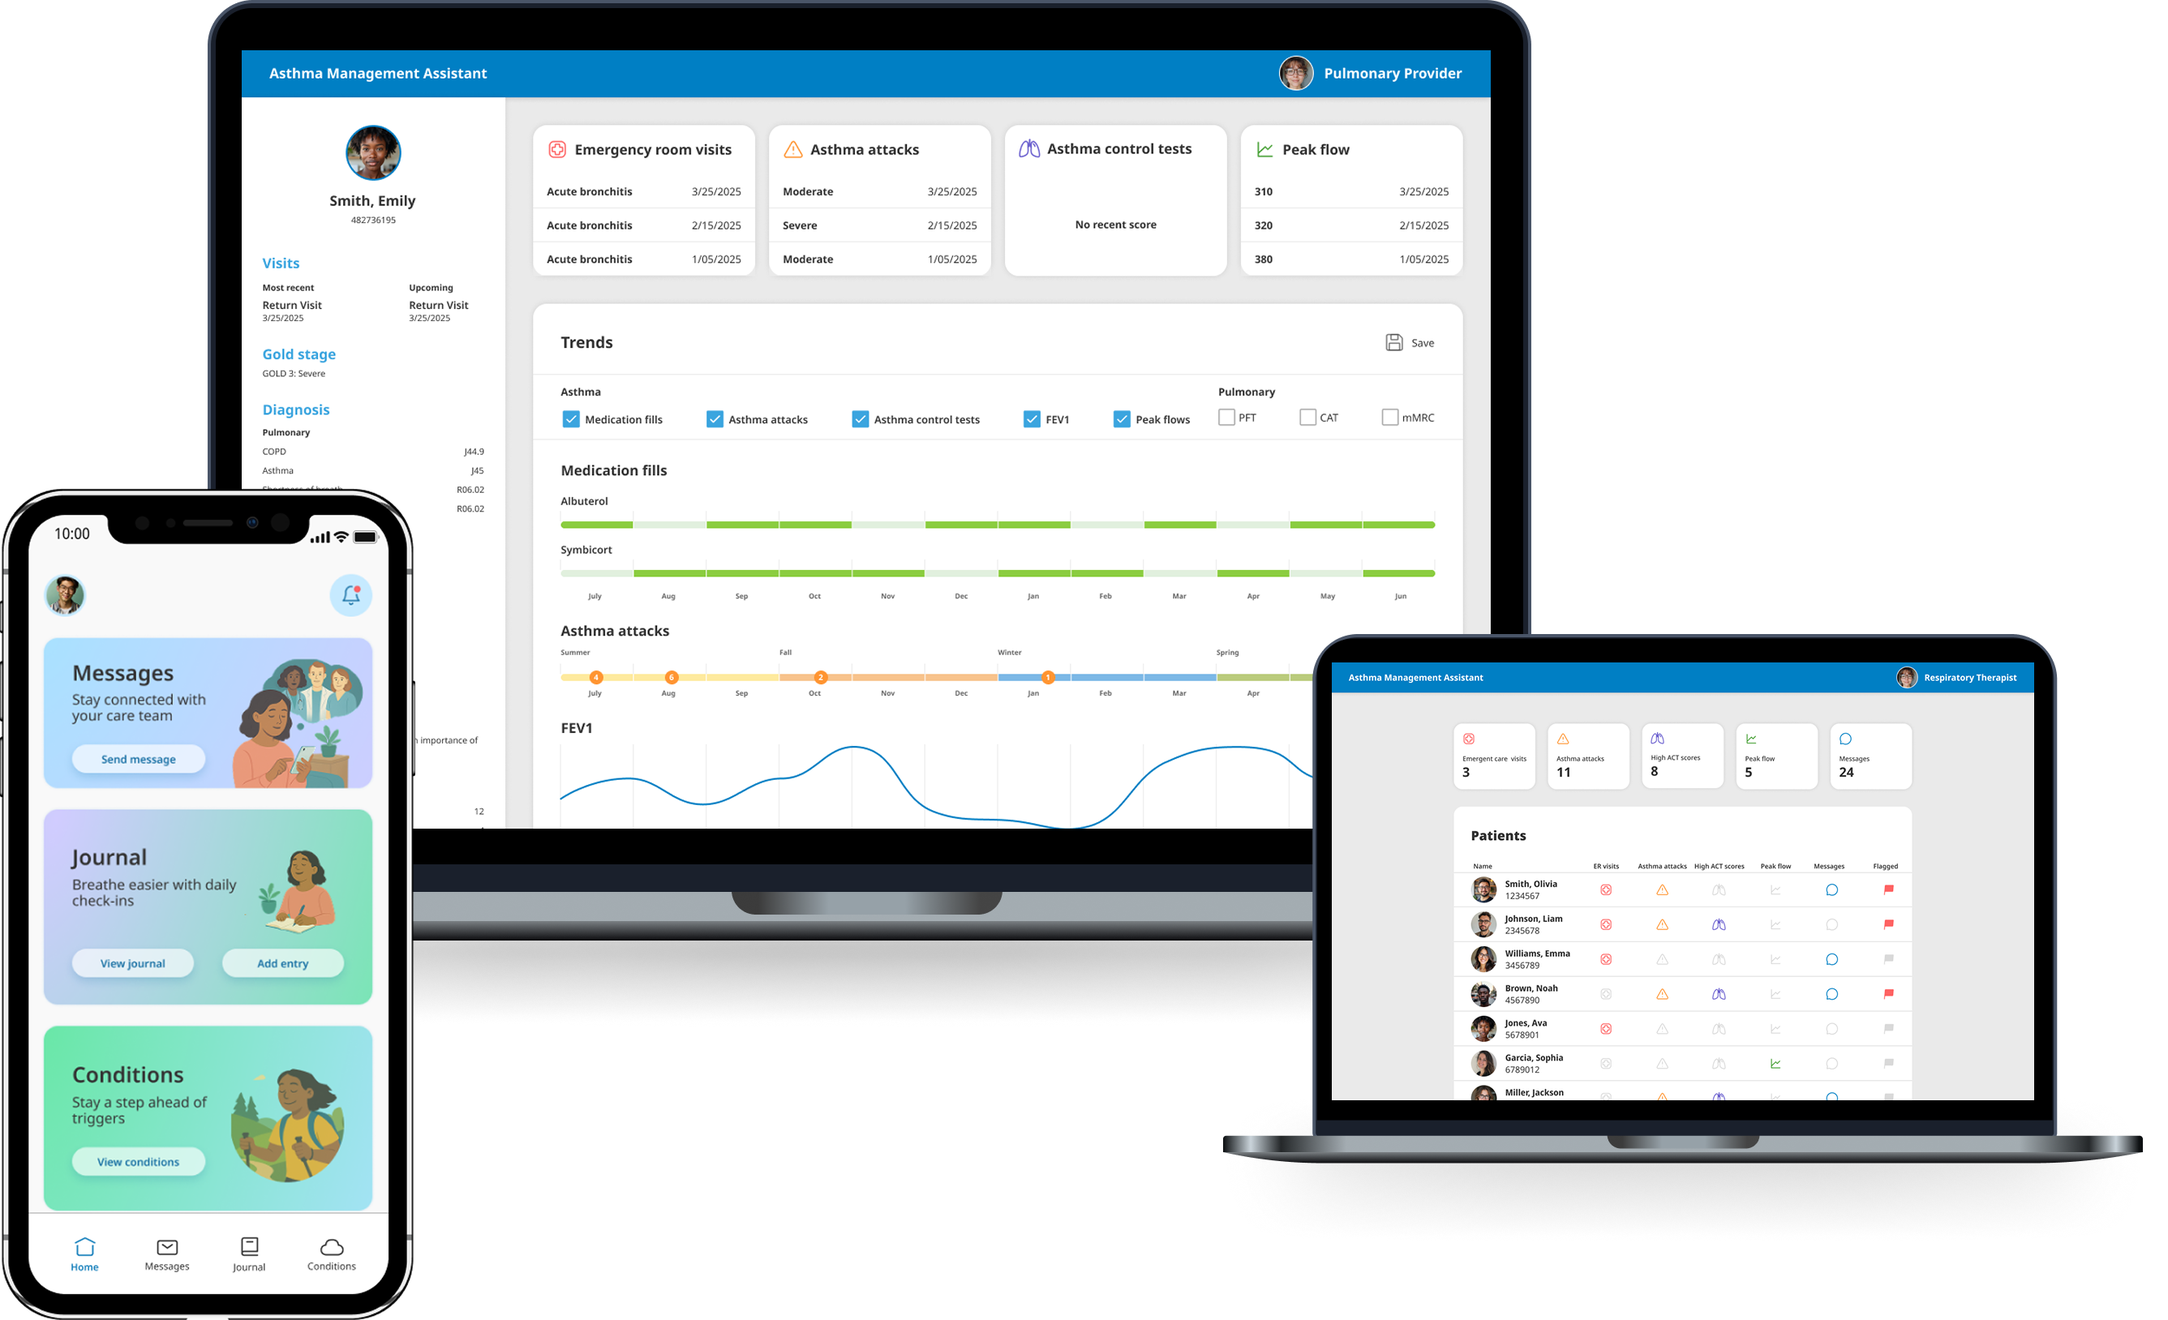
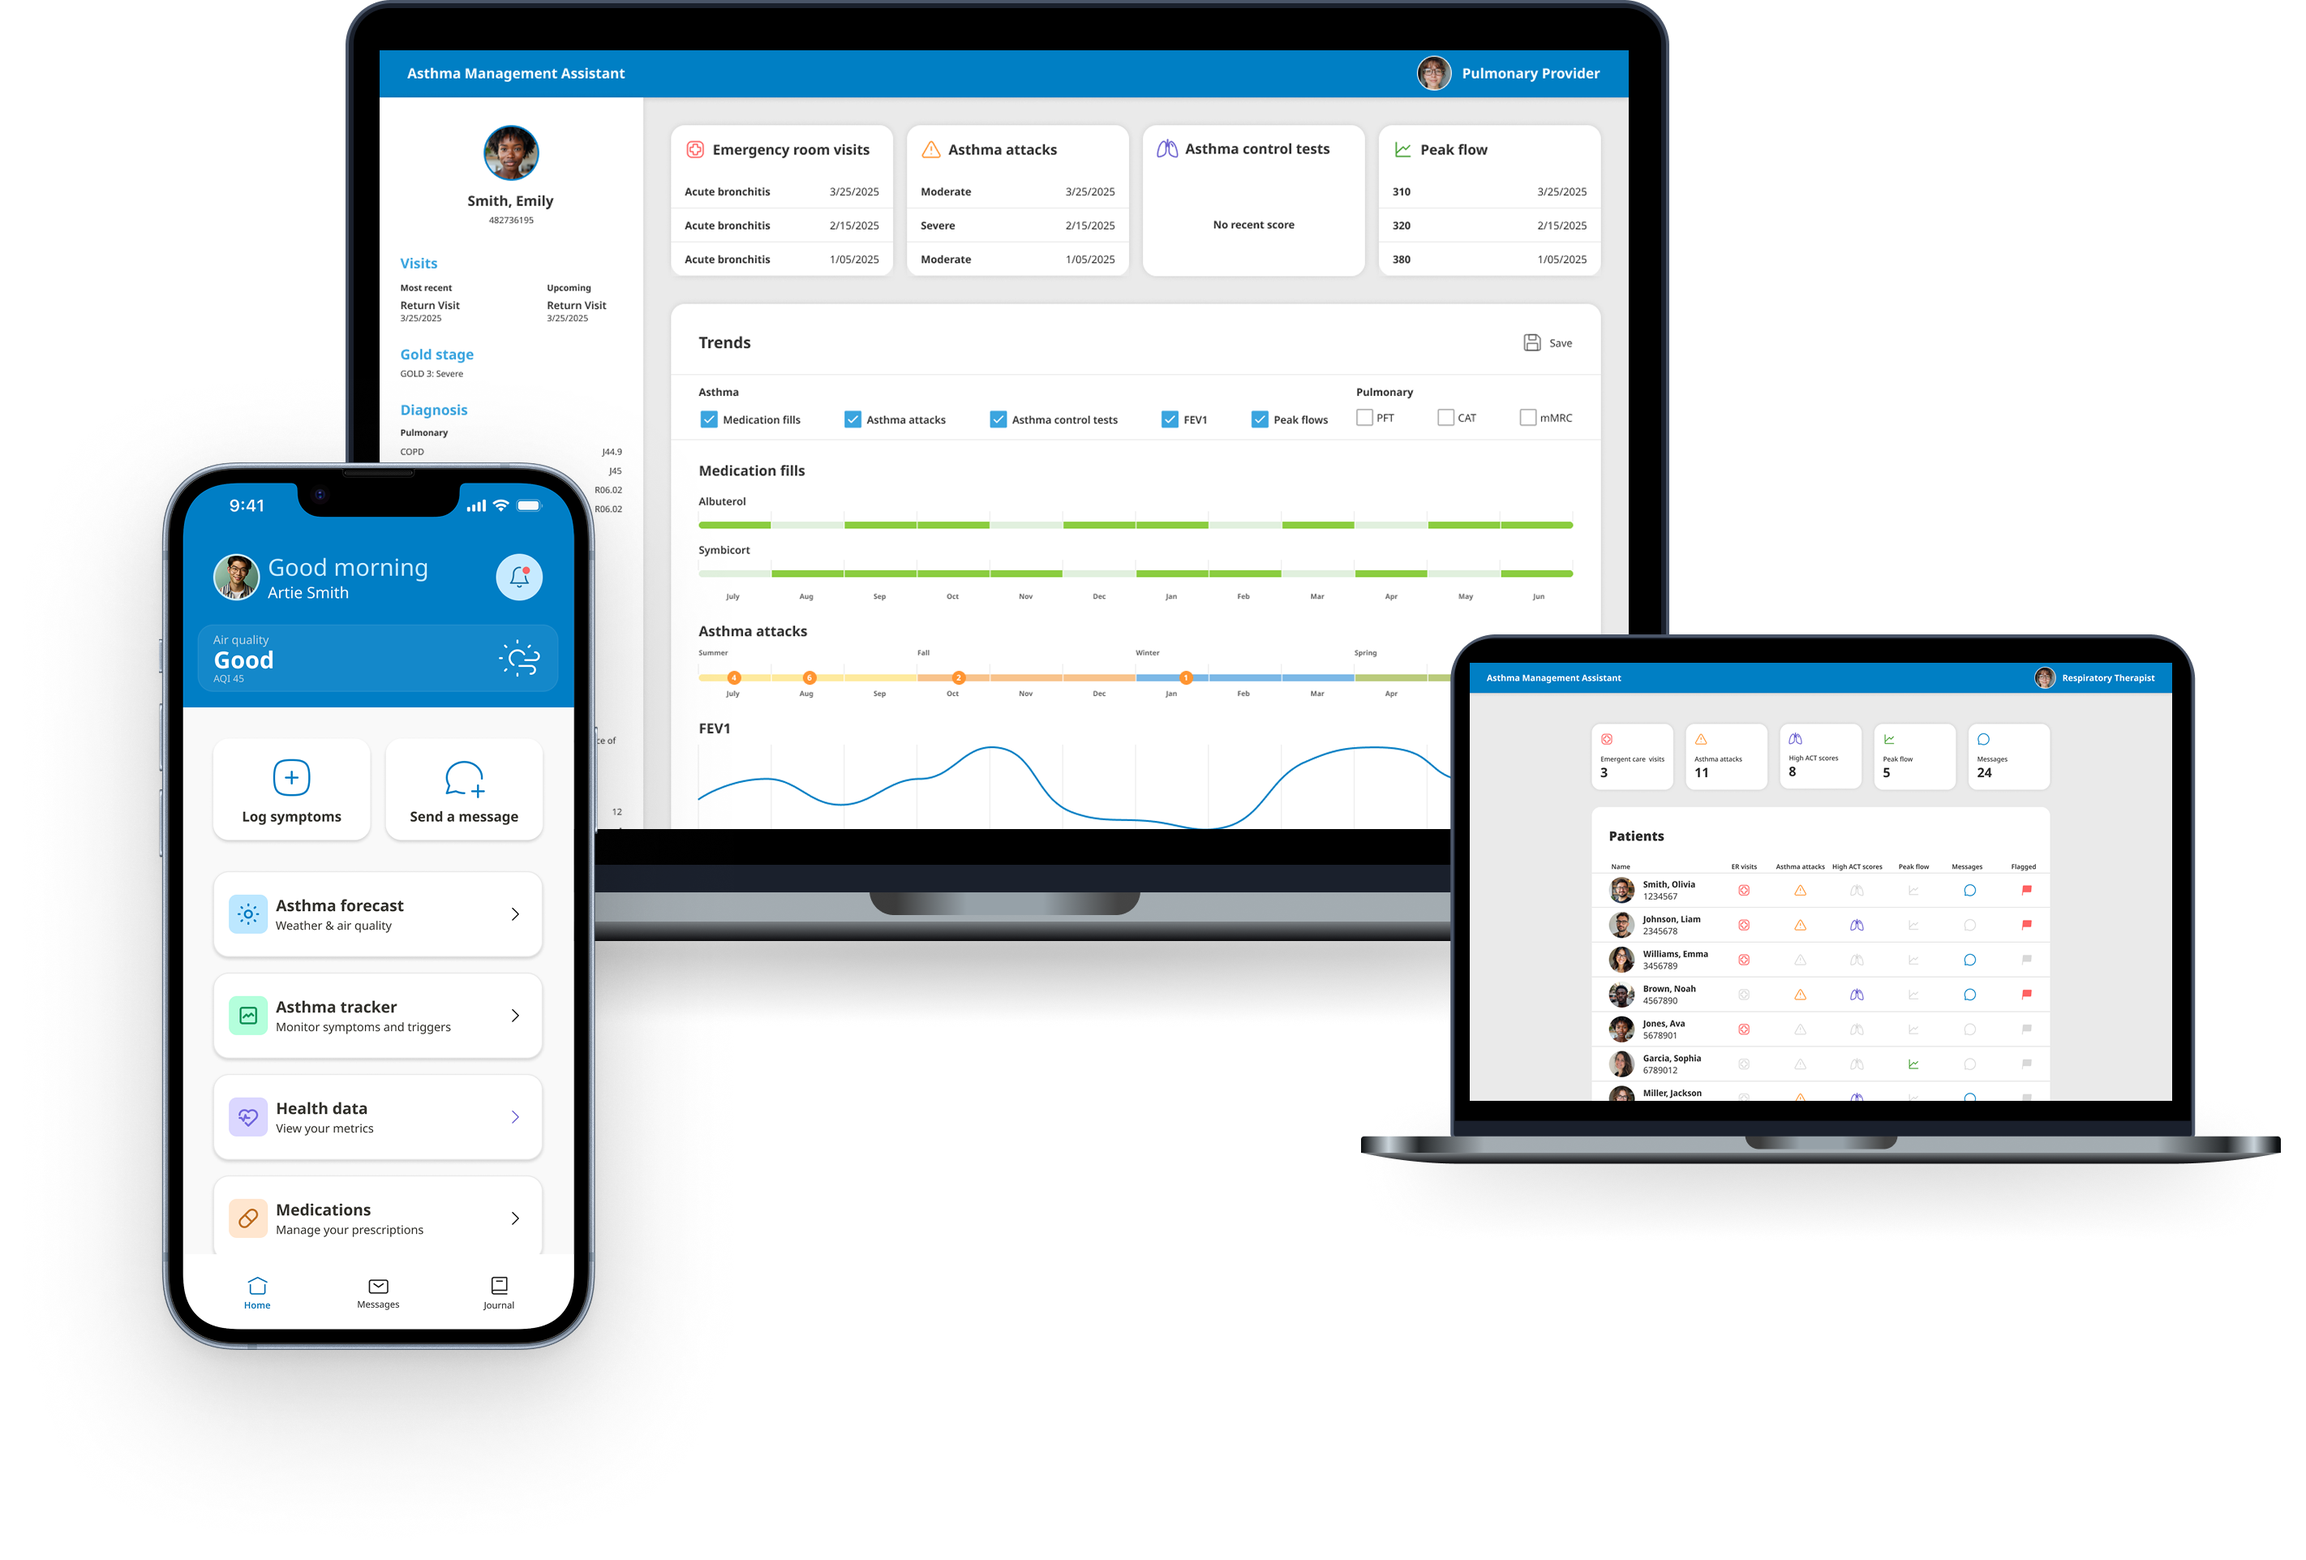
Updated with skills and new edge image (#1)

diff --git a/src/app/page.tsx b/src/app/page.tsx
@@ -28,21 +28,21 @@ export default function Home() {
             <div className="flex flex-row">
               <PaintBrushIcon className="size-8 text-acorn-800" />
               <div className="">
-                <p className="text-white md:text-2xl font-bold pl-2">Design</p>
-                <p className="text-white/90 md:text-2xl pl-2">Ms in Design & 10 yrs experience</p>
+                <p className="text-white md:text-2xl font-bold pl-2 mb-1">Design</p>
+                <p className="text-white/90 md:text-2xl pl-2 ">Ms in Design & 10 yrs experience</p>
               </div>
             </div>
             <div className="flex flex-row">
               <BriefcaseIcon className="size-8 text-acorn-800" />
               <div className="">
-                <p className="text-white md:text-2xl font-bold pl-2">Business</p>
+                <p className="text-white md:text-2xl font-bold pl-2 mb-1">Business</p>
                 <p className="text-white/90 md:text-2xl pl-2">Bs in Business Admin</p>
               </div>
             </div>
             <div className="flex flex-row">
               <CodeBracketIcon className="size-8 text-acorn-800" />
               <div className="">
-                <p className="text-white md:text-2xl font-bold pl-2">Technology</p>
+                <p className="text-white md:text-2xl font-bold pl-2 mb-1">Technology</p>
                 <p className="text-white/90 md:text-2xl pl-2">Previous Front End Engineer</p>
               </div>
             </div>
@@ -169,7 +169,7 @@ export default function Home() {
             </div>
           </div>
           <div className="flex flex-col w-full">
-            <h3 className="text-xl md:text-3xl font-bold text-neutral-600">About me</h3>
+            <h3 className="text-xl md:text-3xl font-bold text-neutral-600 mb-3">About me</h3>
             <p className="md:text-2xl text-neutral-500 font-medium mb-4">I’m a curious designer who loves digging into how things work, and why people do what they do. My background spans front-end development, instructional design, and emerging tech, which gives me a well-rounded perspective on problem-solving. Outside of design, I’m into gaming and VR, smoked BBQ, fermentation projects, cycling, and experimenting in the kitchen.</p>
             <p className="md:text-2xl text-neutral-500 font-medium">I developed my portfolio using NextJS/React, Tailwind, and a little bit of vibe coding  using Cursor to round things out.</p>
           </div>

diff --git a/src/app/projects/fidelityyouth/page.tsx b/src/app/projects/fidelityyouth/page.tsx
@@ -12,7 +12,7 @@ export default function Page() {
             <p className="text-acorn-500 text-sm font-bold">Fidelity Investments</p>
             <h1 className="text-2xl lg:text-6xl font-bold text-neutral-800">Fidelity Youth™ App</h1>
             <p className="text-xl md:text-2xl text-neutral-600 font-medium">
-              A teen-owned brokerage account that gives teens ages 13–17 the power to save, spend, and invest their own money—while letting parents stay connected.
+              A teen-owned brokerage account that gives teens ages 13-17 the power to save, spend, and invest their own money while letting parents stay connected.
             </p>
             <p className="text-sm text-gray-800 font-bold">iOS & Android app</p>
           </div>
@@ -47,7 +47,7 @@ export default function Page() {
             <div>
               <h1 className="text-xl md:text-3xl font-bold text-neutral-600 mb-4">Role</h1>
               <p className="text-neutral-600 font-medium text-xl">
-                As the <span className="font-bold">Principal UX Designer</span> on a small team, I led the design process from early-stage ideas and concepts through refinement, high-fidelity design, and final app release — including ongoing iterations.
+                As the <span className="font-bold">Principal UX Designer</span> on a small team, I led the design process for portions of the app from early-stage ideas and concepts through refinement, high-fidelity design, and final app release, including ongoing iterations.
               </p>
             </div>
             <div>

diff --git a/src/app/projects/freshfoodfarmacy/page.tsx b/src/app/projects/freshfoodfarmacy/page.tsx
@@ -116,8 +116,7 @@ export default function Page() {
                   <div>
                     <h2 className="text-l text-sky-500 font-bold">Prototypes</h2>
                     <p className="text-neutral-600 font-medium text-xl">
-                      We then created apps for both the administrators and patients. We reviewed and went through several iterations with the stakeholders, and we also showed patients the app for some user testing and impressions.eation of apps for administrators and patients, followed by iterations with stakeholders and user testing.
-                    </p>
+We then created apps for both the administrators and patients. We reviewed and went through several iterations with the stakeholders, and we also showed patients the app for some user testing and impressions.                    </p>
                   </div>
                   <div>
                     <h2 className="text-l text-sky-500 font-bold">Development & Iterations</h2>
